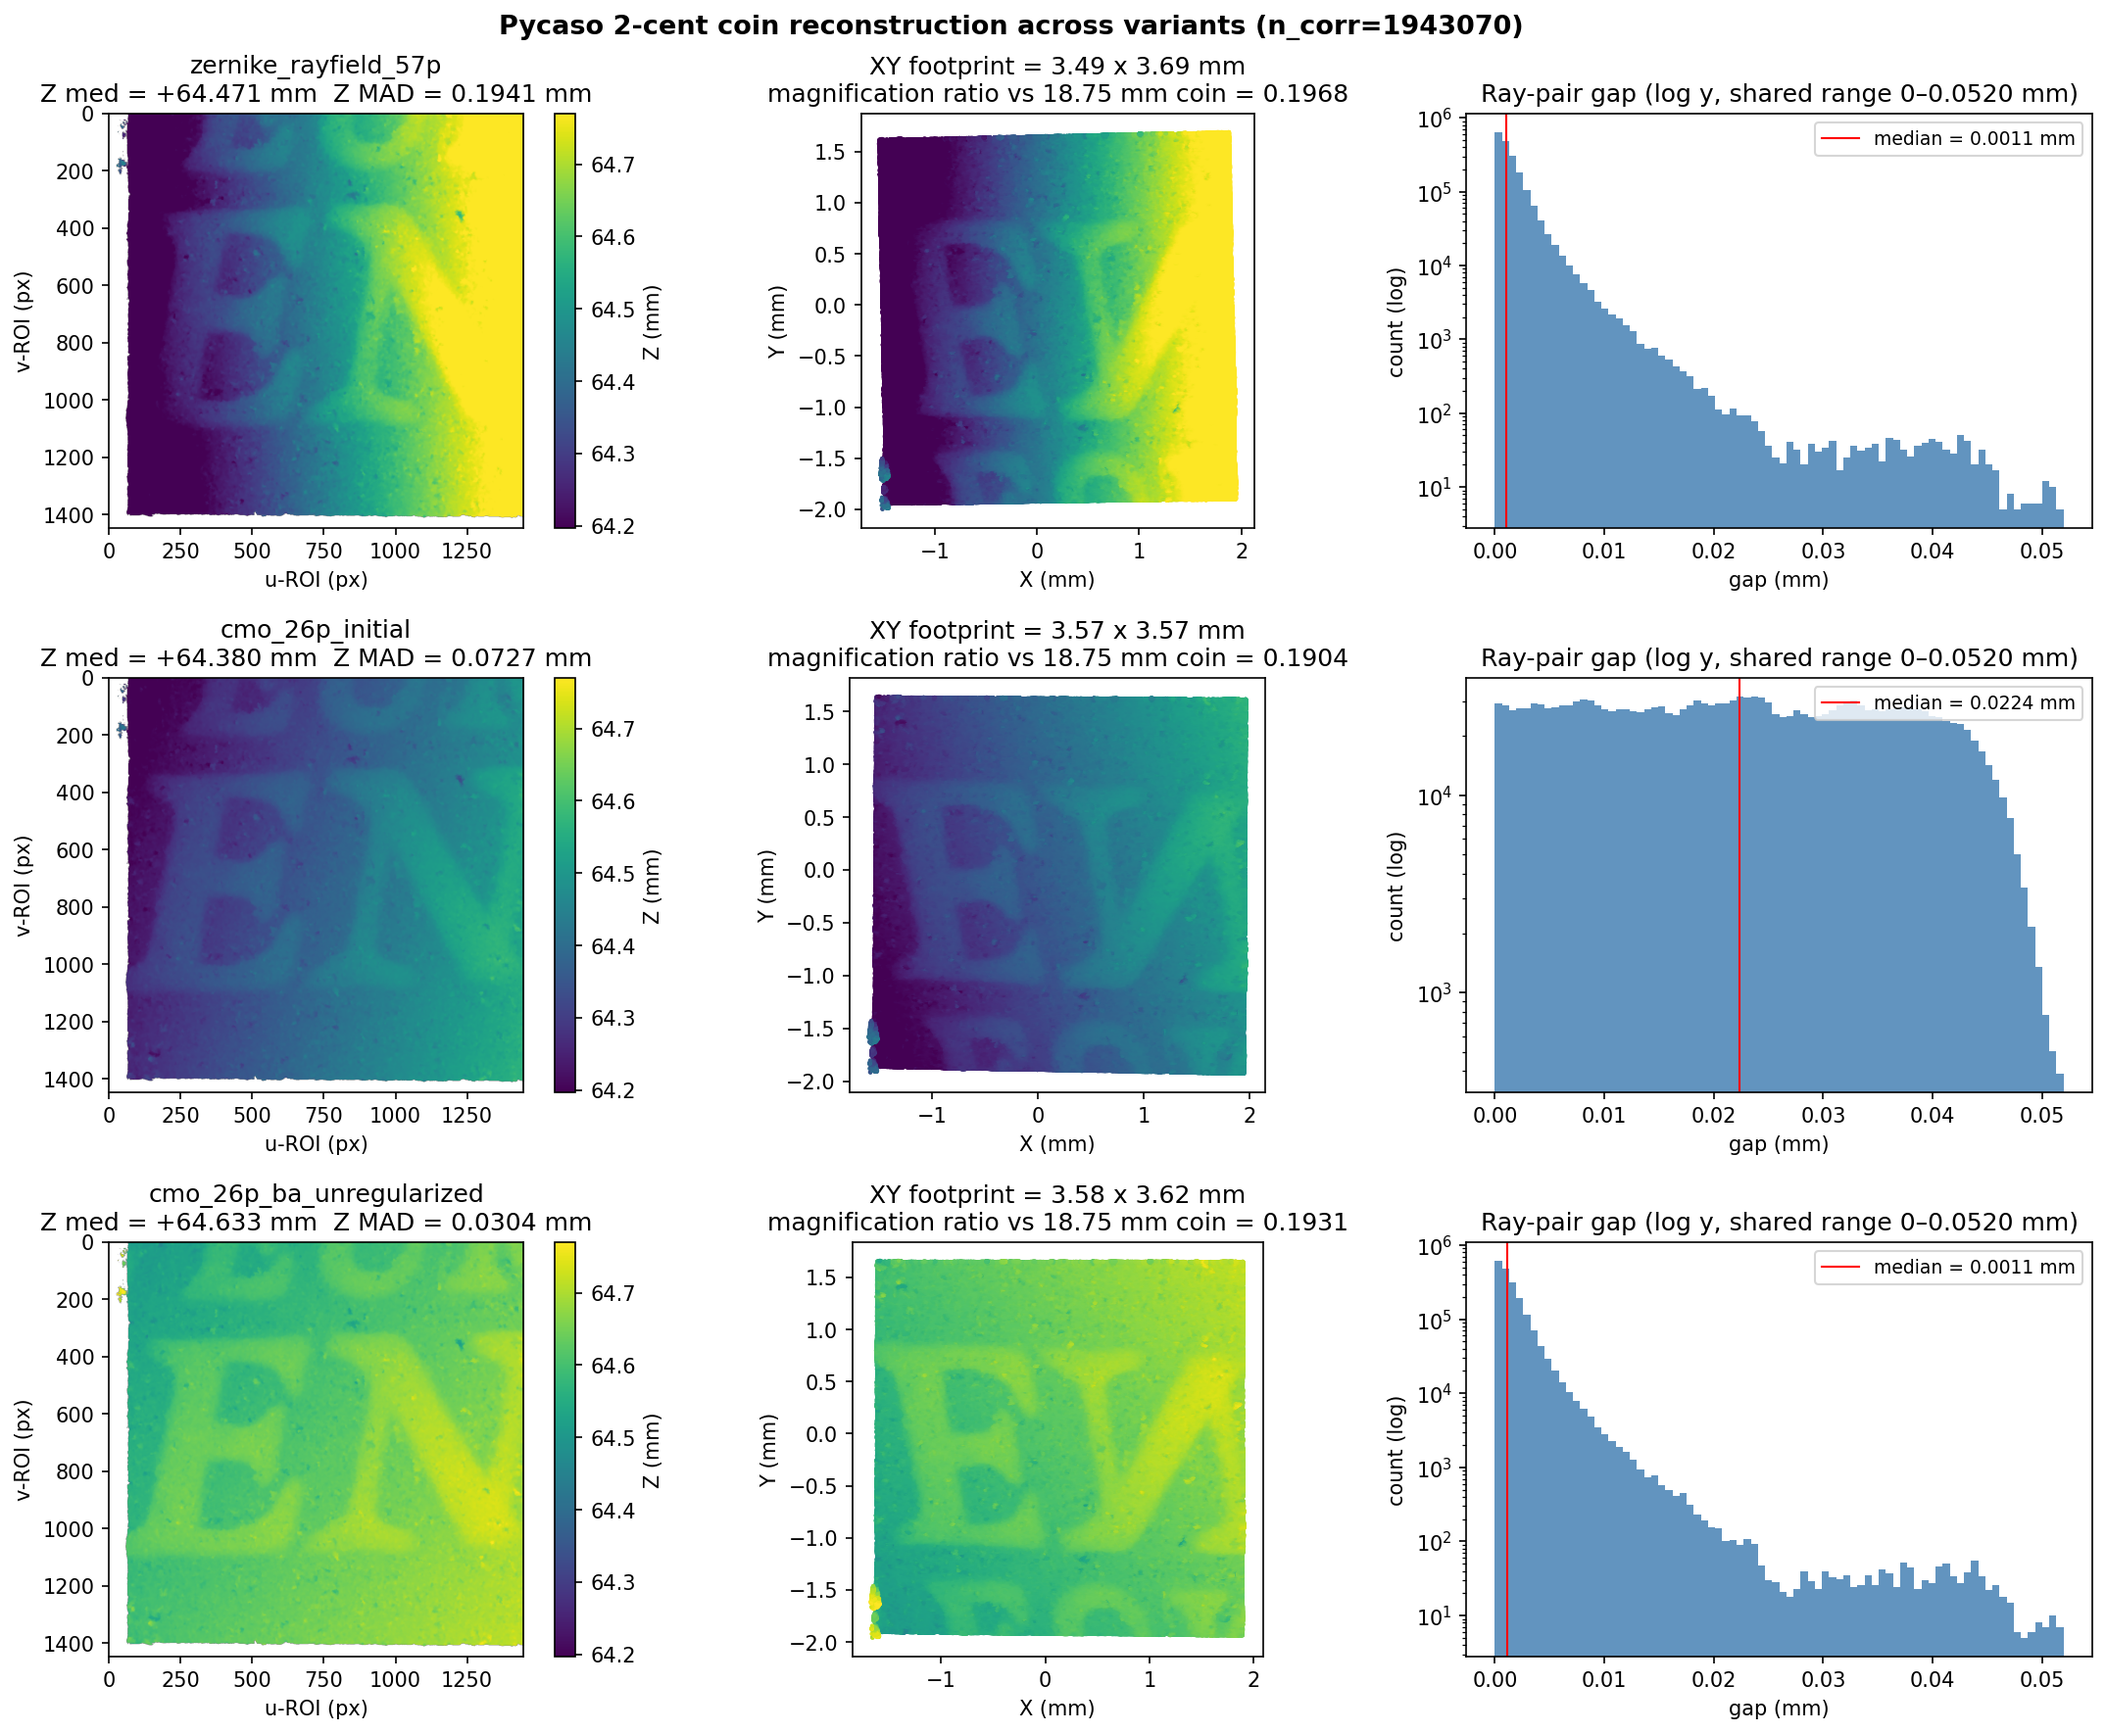
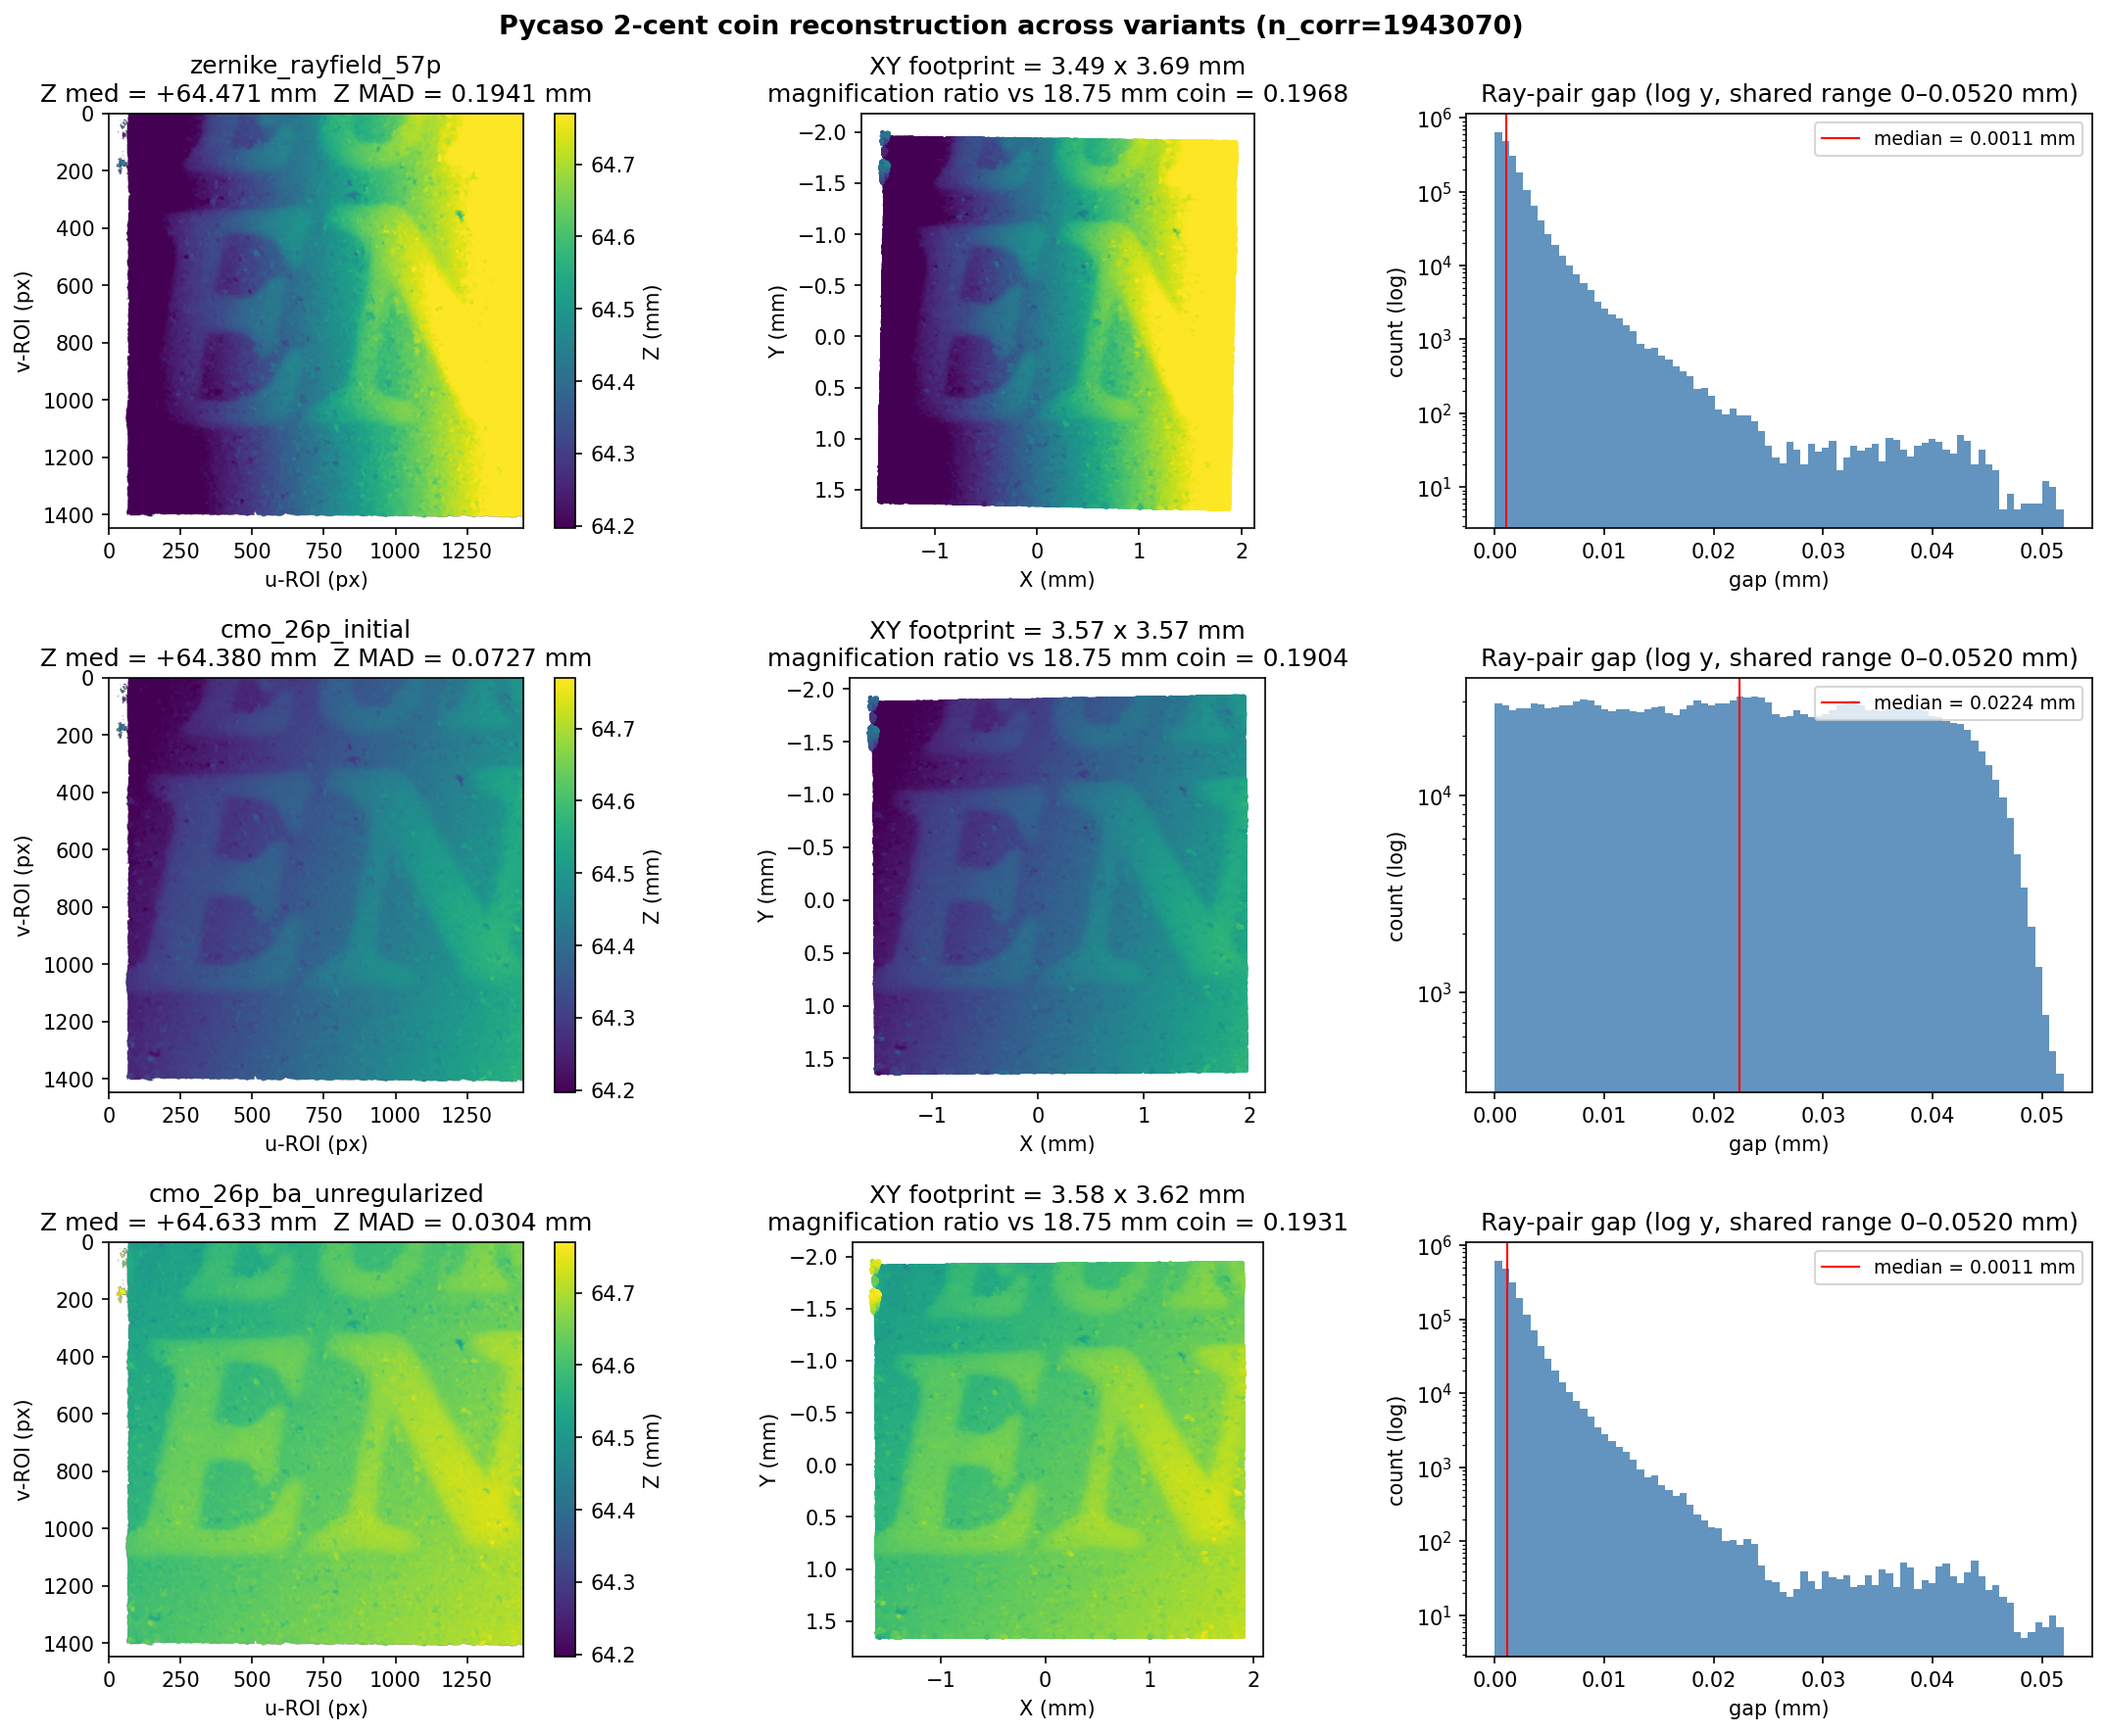
fix(optical_ba): align XY scatter to Z-map via shared OpenCV convention
Both columns now follow the same OpenCV frame (Y points downward in
image space): the Z-map uses origin="upper", the scatter uses
invert_yaxis().  This is not a hack — it is the OpenCV convention
applied consistently to matplotlib's two rendering primitives.

Changed region(s): [[0.3741, 0.7151, 0.5924, 0.9638], [0.3741, 0.0622, 0.5924, 0.3109], [0.3741, 0.3731, 0.5924, 0.6218]]

diff --git a/examples/pycaso_schur_regularized_ba.py b/examples/pycaso_schur_regularized_ba.py
@@ -474,6 +474,10 @@ def _plot_specimen_grid(
         ax_xy.scatter(rec.X, rec.Y, s=1, c=rec.Z, cmap="viridis",
                       vmin=vmin, vmax=vmax)
         ax_xy.set_aspect("equal")
+        # Z-map and scatter share the OpenCV convention where Y_world
+        # follows image v (downward).  Matplotlib defaults to Y-up, so
+        # invert the scatter's Y axis to match the Z-map origin="upper".
+        ax_xy.invert_yaxis()
         w, h = rec.image_extent_xy_mm
         ax_xy.set_title(
             f"XY footprint = {w:.2f} x {h:.2f} mm\n"
